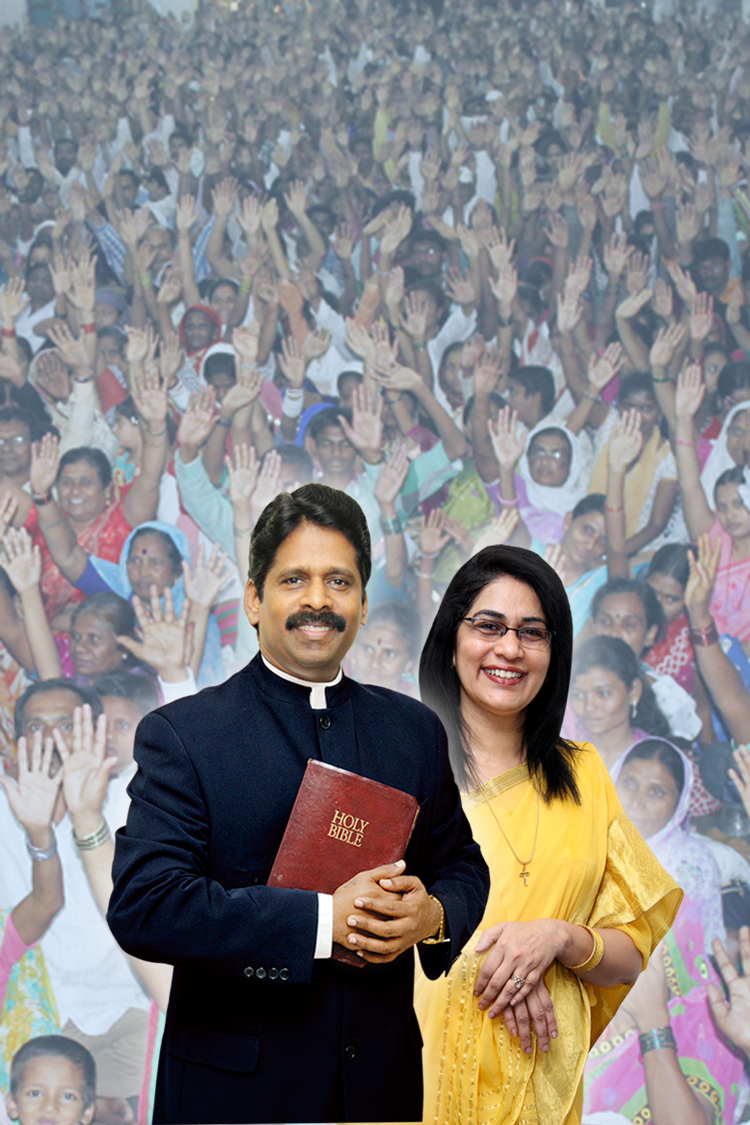
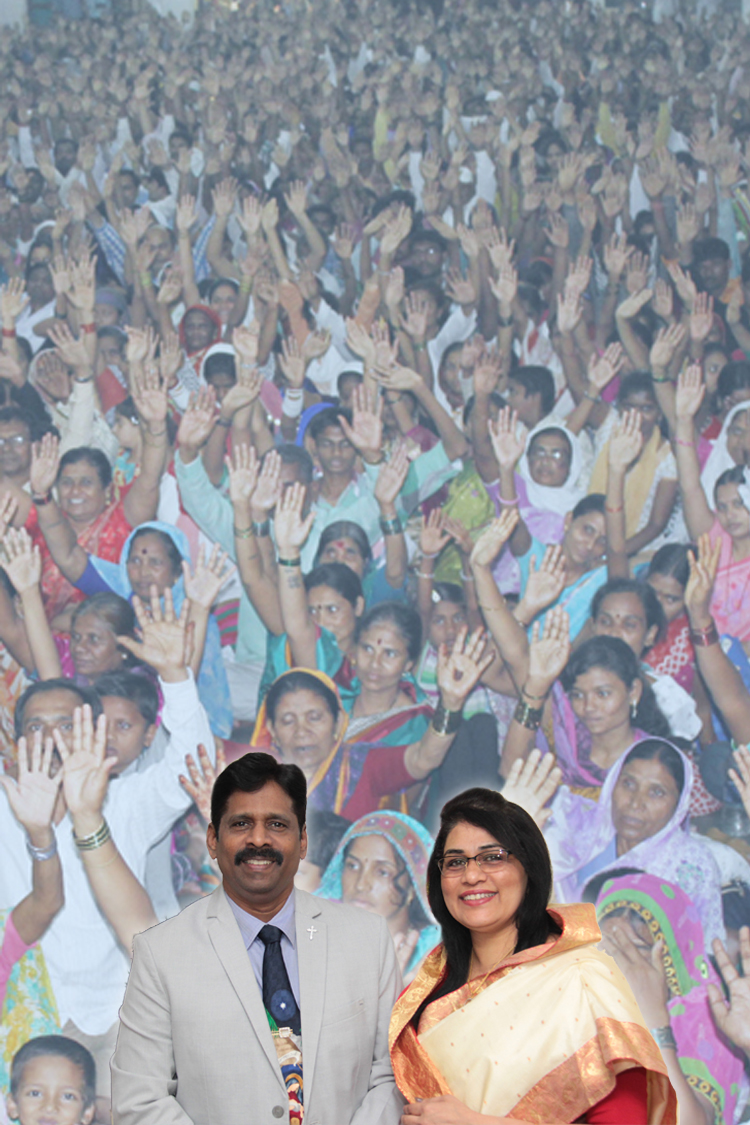
slider design updated

diff --git a/index.html b/index.html
@@ -118,8 +118,8 @@
                 <div class="article-header fullscreen bg-slide">
                   <div class="fullscreen-title valign-wrapper">
                     <div class="valign">
-                      
-                      <h3 style="color:#ffffff">Welcome to <br/> <strong> Vineyard Workers of Christ Church</strong></h3>
+                      <h1 style="color:#ffffff">Vineyard Of Jesus</h1>
+                    <p><strong> Thousands are being blessed</strong></p>                   
                       <a href="church.html" class="mdl-button mdl-js-button mdl-js-ripple-effect mdl-button--accent border">
                         KNOW MORE
                       </a>
@@ -140,8 +140,8 @@
               <div class="swiper-slide slogan bg-shop gradient-container">
                 <div class="fullscreen-title valign-wrapper">
                   <div class="valign">
-                     <h1 style="color:#ffffff">Vineyard Of Jesus</h1>
-                    <p><strong> Thousands are being blessed</strong></p>
+                      <h3 style="color:#ffffff">Pastor Jayashree Silway</h3>
+                    <p><strong> Founder pastor vineyard workers of Christ church </strong></p>
                   </div>
                 </div>
               </div>
